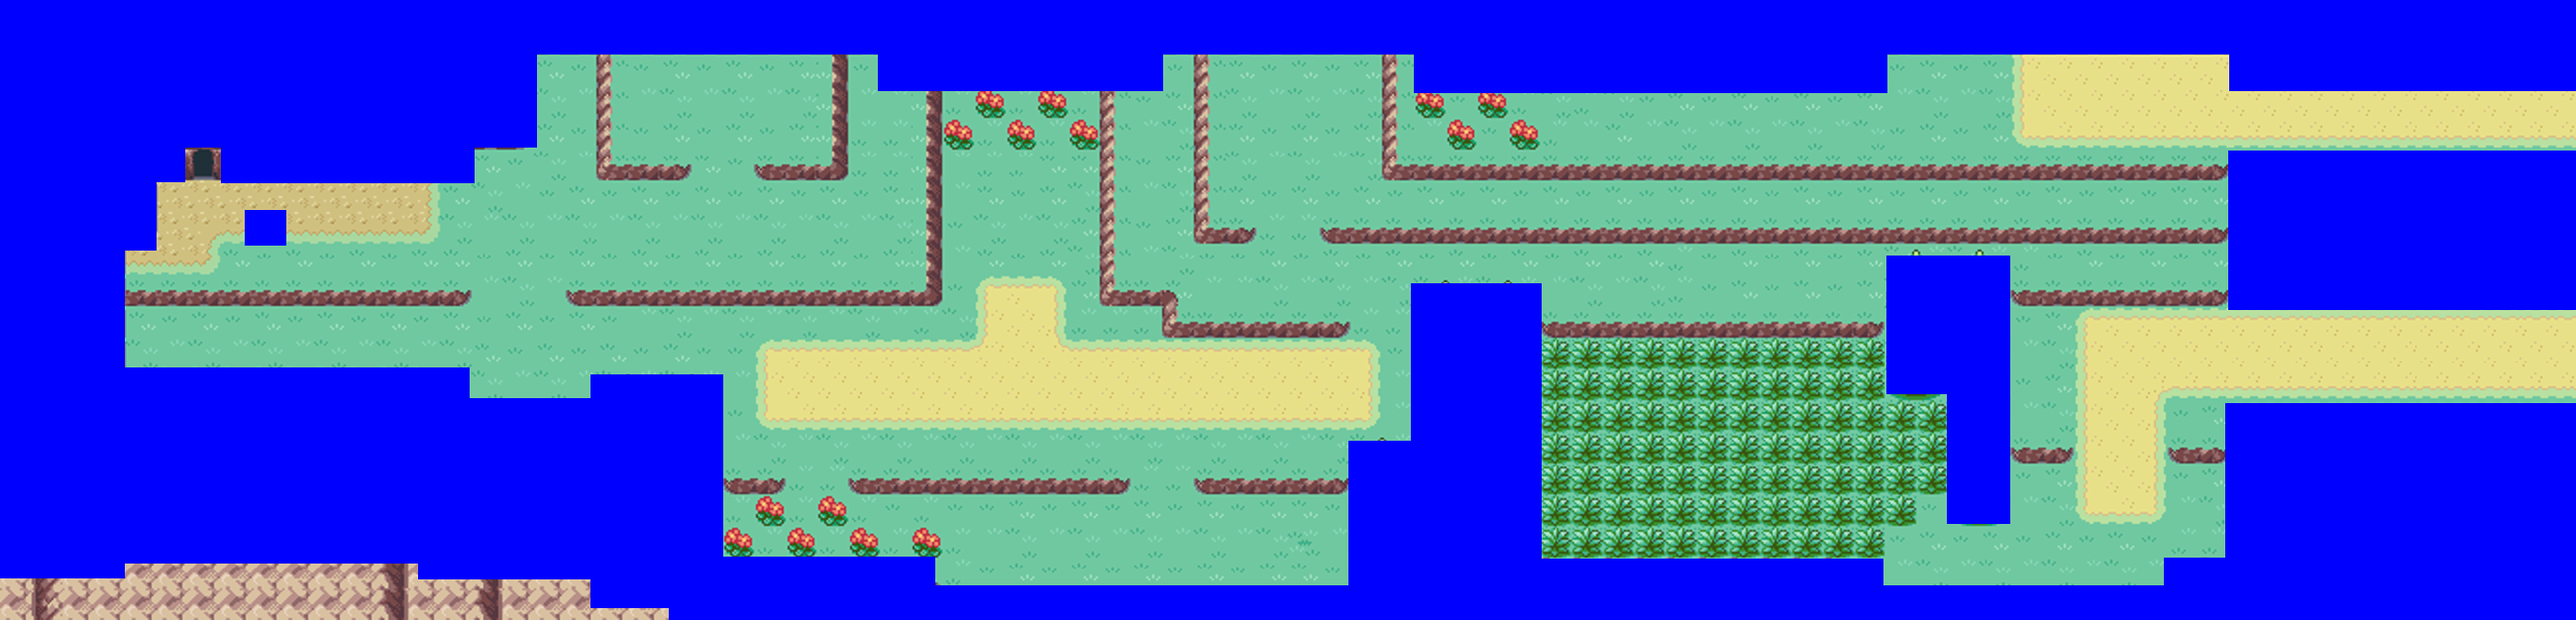
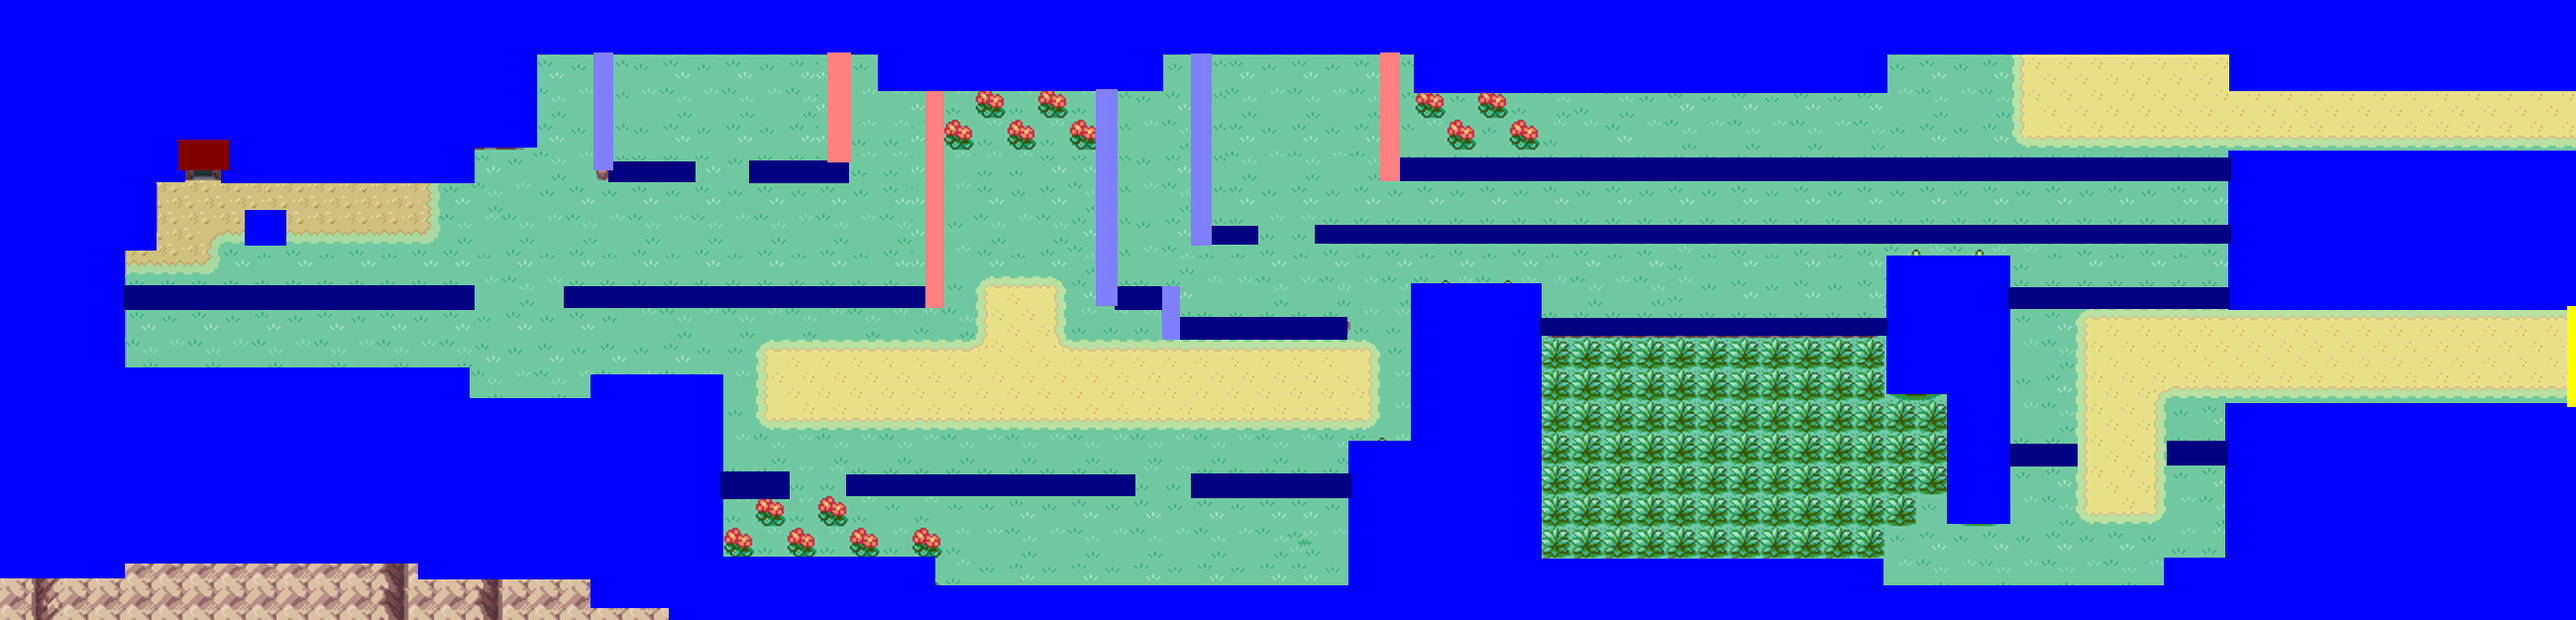
fixed mt Moon and added Cerulean City

diff --git a/src/MasseyMon.java b/src/MasseyMon.java
@@ -29,7 +29,7 @@ public class MasseyMon extends JFrame {
 		setVisible(true);
 		setResizable(false);
 		start();
-		inBattle = true;
+		inBattle = false;
 	}
 	public static void main(String[] args) throws IOException{
 		frame = new MasseyMon();
@@ -41,7 +41,7 @@ public class MasseyMon extends JFrame {
 	public PokemonBattle getPokeBattle(){ return pokeBattle; }
 	public void load() throws IOException {
 		Scanner inFile = new Scanner(new BufferedReader(new FileReader("Data/PlayerPositions.txt")));
-		for (int i = 0; i < 12; i++) {
+		for (int i = 0; i < 13; i++) {
 			String line = inFile.nextLine();
 			String path = String.format("%s/%s/%s%d.png", "Images", "Backgrounds", "Background", i);
 			String pathMask = String.format("%s/%s/%s%d%s.png", "Images", "Masks", "Background", i,"Mask");
@@ -52,7 +52,7 @@ public class MasseyMon extends JFrame {
 			} catch (IOException e) {}
 		}
 		inFile = new Scanner(new BufferedReader(new FileReader("Data/miniPlayerPositions")));
-		for (int k = 0; k <12;k++) {
+		for (int k = 0; k <13;k++) {
 			miniMaps.add(new ArrayList<pokeMapMini>());
 			for (int i = 0; i < 5; i++) {
 				String line = inFile.nextLine();
@@ -320,7 +320,8 @@ class GamePanel extends JPanel {
 	public void move() {
 		if (!menu) {
 			if (movable) {
-				if ((keys[KeyEvent.VK_UP] || keys[KeyEvent.VK_W]) && clear(myGuy.getWorldX(), myGuy.getWorldY() - 1, myGuy.getWorldX() + 19, myGuy.getWorldY() - 1) && checkLedge(myGuy.getWorldX(), myGuy.getWorldY() - 2, myGuy.getWorldX() + 19, myGuy.getWorldY() - 2)) {
+				if ((keys[KeyEvent.VK_UP] || keys[KeyEvent.VK_W]) && clear(myGuy.getWorldX(), myGuy.getWorldY() - 1, myGuy.getWorldX() + 19, myGuy.getWorldY() - 1) && (checkLedge(myGuy.getWorldX(), myGuy.getWorldY() - 2, myGuy.getWorldX() + 19, myGuy.getWorldY() - 2)
+						&& checkLedgeLeft(myGuy.getWorldX(), myGuy.getWorldY() - 2, myGuy.getWorldX() + 19, myGuy.getWorldY() - 2) && checkLedgeRight(myGuy.getWorldX(), myGuy.getWorldY() - 2, myGuy.getWorldX() + 19, myGuy.getWorldY() - 2))) {
 					direction = UP;
 					myGuy.move(direction, picIndex, miniPicIndex, mini);
 					if (checkBuilding(myGuy.getWorldX(), myGuy.getWorldY() - 1, myGuy.getWorldX() + 20, myGuy.getWorldY() - 1)) {
@@ -365,7 +366,7 @@ class GamePanel extends JPanel {
 						myGuy.setWorldY(MasseyMon.getMap(picIndex).getStartPosY());
 						if (MasseyMon.getMap(picIndex).getMapHeight() > 795) {
 
-							if (myGuy.getWorldY() == 397 || myGuy.getWorldY() == 900) {
+							if (myGuy.getWorldY() == 397 || myGuy.getWorldY() == 900 || myGuy.getWorldY() == 860) {
 								myGuy.setScreenY(398);
 							}
 
@@ -393,7 +394,7 @@ class GamePanel extends JPanel {
 						myGuy.setWorldX(MasseyMon.getMap(picIndex).getStartPosX7());
 						myGuy.setWorldY(MasseyMon.getMap(picIndex).getStartPosY7());
 						if (MasseyMon.getMap(picIndex).getMapHeight() > 795) {
-							if (myGuy.getWorldY() == 290 || myGuy.getWorldY() == 300) {
+							if (myGuy.getWorldY() == 290 || myGuy.getWorldY() == 300 || myGuy.getWorldY() == 420) {
 								myGuy.setScreenY(300);
 							} else if (myGuy.getWorldY() - 398 > 0 || myGuy.getWorldY() + 398 < MasseyMon.getMap(picIndex).getMapHeight()) {
 								myGuy.setScreenY(0);
@@ -414,7 +415,8 @@ class GamePanel extends JPanel {
 						}
 					}
 
-				} else if ((keys[KeyEvent.VK_DOWN] || keys[KeyEvent.VK_S]) && clear(myGuy.getWorldX(), myGuy.getWorldY() + 27, myGuy.getWorldX() + 19, myGuy.getWorldY() + 27) && checkLedge(myGuy.getWorldX(), myGuy.getWorldY() + 27, myGuy.getWorldX() + 19, myGuy.getWorldY() + 27)) {
+				} else if ((keys[KeyEvent.VK_DOWN] || keys[KeyEvent.VK_S]) && clear(myGuy.getWorldX(), myGuy.getWorldY() + 27, myGuy.getWorldX() + 19, myGuy.getWorldY() + 27) && (checkLedge(myGuy.getWorldX(), myGuy.getWorldY() + 27, myGuy.getWorldX() + 19, myGuy.getWorldY() + 27)
+						&& checkLedgeLeft(myGuy.getWorldX(), myGuy.getWorldY() + 27, myGuy.getWorldX() + 19, myGuy.getWorldY() + 27) && checkLedgeRight(myGuy.getWorldX(), myGuy.getWorldY() + 27, myGuy.getWorldX() + 19, myGuy.getWorldY() + 27))){
 					direction = DOWN;
 					myGuy.move(direction, picIndex, miniPicIndex, mini);
 
@@ -544,7 +546,7 @@ class GamePanel extends JPanel {
 						myGuy.setWorldX(MasseyMon.getMap(picIndex).getStartPosX7());
 						myGuy.setWorldY(MasseyMon.getMap(picIndex).getStartPosY7());
 						if (MasseyMon.getMap(picIndex).getMapHeight() > 795) {
-							if (myGuy.getWorldY() == 290 || myGuy.getWorldY() == 300) {
+							if (myGuy.getWorldY() == 290 || myGuy.getWorldY() == 300 || myGuy.getWorldY() == 420) {
 								myGuy.setScreenY(300);
 							} else if (myGuy.getWorldY() - 398 > 0 || myGuy.getWorldY() + 398 < MasseyMon.getMap(picIndex).getMapHeight()) {
 								myGuy.setScreenY(0);
@@ -570,7 +572,7 @@ class GamePanel extends JPanel {
 						myGuy.setWorldY(MasseyMon.getMap(picIndex).getStartPosY());
 						if (MasseyMon.getMap(picIndex).getMapHeight() > 795) {
 
-							if (myGuy.getWorldY() == 397 || myGuy.getWorldY() == 900) {
+							if (myGuy.getWorldY() == 397 || myGuy.getWorldY() == 900 || myGuy.getWorldY() == 860) {
 								myGuy.setScreenY(398);
 							}
 
@@ -594,7 +596,8 @@ class GamePanel extends JPanel {
 						}
 					}
 
-				} else if ((keys[KeyEvent.VK_RIGHT] || keys[KeyEvent.VK_D]) && clear(myGuy.getWorldX() + 20, myGuy.getWorldY(), myGuy.getWorldX() + 20, myGuy.getWorldY() + 26) && clear(myGuy.getWorldX() + 20, myGuy.getWorldY(), myGuy.getWorldX() + 20, myGuy.getWorldY() + 20)) {
+				} else if ((keys[KeyEvent.VK_RIGHT] || keys[KeyEvent.VK_D]) && clear(myGuy.getWorldX() + 20, myGuy.getWorldY(), myGuy.getWorldX() + 20, myGuy.getWorldY() + 26) && (checkLedge(myGuy.getWorldX() + 20, myGuy.getWorldY(), myGuy.getWorldX() + 20, myGuy.getWorldY() + 20)
+						&& checkLedgeLeft(myGuy.getWorldX() + 20, myGuy.getWorldY(), myGuy.getWorldX() + 20, myGuy.getWorldY() + 20) && checkLedgeRight(myGuy.getWorldX() + 20, myGuy.getWorldY(), myGuy.getWorldX() + 20, myGuy.getWorldY() + 20))) {
 					direction = RIGHT;
 					myGuy.move(direction, picIndex, miniPicIndex, mini);
 
@@ -604,7 +607,11 @@ class GamePanel extends JPanel {
 						myGuy.setWorldY(MasseyMon.getMap(picIndex).getStartPosY());
 						if (MasseyMon.getMap(picIndex).getMapHeight() > 795) {
 
-							if (myGuy.getWorldY() - 398 > 0 || myGuy.getWorldY() + 398 < MasseyMon.getMap(picIndex).getMapHeight()) {
+							if (myGuy.getWorldY() == 860) {
+								myGuy.setScreenY(398);
+							}
+
+							else if (myGuy.getWorldY() - 398 > 0 || myGuy.getWorldY() + 398 < MasseyMon.getMap(picIndex).getMapHeight()) {
 								myGuy.setScreenY(795 - (MasseyMon.getMap(picIndex).getMapHeight() - MasseyMon.getMap(picIndex).getStartPosY()));
 
 							} else {
@@ -628,7 +635,7 @@ class GamePanel extends JPanel {
 						myGuy.setWorldX(MasseyMon.getMap(picIndex).getStartPosX7());
 						myGuy.setWorldY(MasseyMon.getMap(picIndex).getStartPosY7());
 						if (MasseyMon.getMap(picIndex).getMapHeight() > 795) {
-							if (myGuy.getWorldY() == 650 || myGuy.getWorldY() == 300 ) {
+							if (myGuy.getWorldY() == 650 || myGuy.getWorldY() == 300 || myGuy.getWorldY() == 420 ) {
 								myGuy.setScreenY(300);
 							} else if (myGuy.getWorldY() - 398 > 0 || myGuy.getWorldY() + 398 < MasseyMon.getMap(picIndex).getMapHeight()) {
 								myGuy.setScreenY(0);
@@ -650,7 +657,8 @@ class GamePanel extends JPanel {
 							myGuy.setScreenX(MasseyMon.getMap(picIndex).getStartPosX7());
 						}
 					}
-				} else if ((keys[KeyEvent.VK_LEFT] || keys[KeyEvent.VK_A]) && clear(myGuy.getWorldX() - 1, myGuy.getWorldY(), myGuy.getWorldX() - 1, myGuy.getWorldY() + 26) && checkLedge(myGuy.getWorldX() - 1, myGuy.getWorldY(), myGuy.getWorldX() - 1, myGuy.getWorldY() + 20)) {
+				} else if ((keys[KeyEvent.VK_LEFT] || keys[KeyEvent.VK_A]) && clear(myGuy.getWorldX() - 1, myGuy.getWorldY(), myGuy.getWorldX() - 1, myGuy.getWorldY() + 26) && (checkLedge(myGuy.getWorldX() - 1, myGuy.getWorldY(), myGuy.getWorldX() - 1, myGuy.getWorldY() + 20)
+						&& checkLedgeLeft(myGuy.getWorldX() - 1, myGuy.getWorldY(), myGuy.getWorldX() - 1, myGuy.getWorldY() + 20) && checkLedgeRight(myGuy.getWorldX() - 1, myGuy.getWorldY(), myGuy.getWorldX() - 1, myGuy.getWorldY() + 20))) {
 					direction = LEFT;
 					myGuy.move(direction, picIndex, miniPicIndex, mini);
 
@@ -659,7 +667,7 @@ class GamePanel extends JPanel {
 						myGuy.setWorldX(MasseyMon.getMap(picIndex).getStartPosX7());
 						myGuy.setWorldY(MasseyMon.getMap(picIndex).getStartPosY7());
 						if (MasseyMon.getMap(picIndex).getMapHeight() > 795) {
-							if (myGuy.getWorldY() == 650 || myGuy.getWorldY() == 300 ) {
+							if (myGuy.getWorldY() == 650 || myGuy.getWorldY() == 300 || myGuy.getWorldY() == 420) {
 								myGuy.setScreenY(300);
 							} else if (myGuy.getWorldY() - 398 > 0 || myGuy.getWorldY() + 398 < MasseyMon.getMap(picIndex).getMapHeight()) {
 								myGuy.setScreenY(0);
@@ -687,7 +695,7 @@ class GamePanel extends JPanel {
 						myGuy.setWorldY(MasseyMon.getMap(picIndex).getStartPosY());
 						if (MasseyMon.getMap(picIndex).getMapHeight() > 795) {
 
-							if (myGuy.getWorldY() == 397 || myGuy.getWorldY() == 900) {
+							if (myGuy.getWorldY() == 397 || myGuy.getWorldY() == 900 || myGuy.getWorldY() == 860) {
 								myGuy.setScreenY(398);
 							}
 
@@ -857,6 +865,50 @@ class GamePanel extends JPanel {
 		}
 		else{
 			if (keys[KeyEvent.VK_UP]|| keys[KeyEvent.VK_W] || keys[KeyEvent.VK_LEFT]|| keys[KeyEvent.VK_A] || keys[KeyEvent.VK_D] || keys[KeyEvent.VK_RIGHT]){
+				return false;
+			}
+		}
+		return true;
+	}
+
+	private boolean checkLedgeLeft(int x, int y, int x2, int y2){
+		BufferedImage maskPic = MasseyMon.getMap(picIndex).getMask();
+		int posX = MasseyMon.getMap(picIndex).getMapX();
+		int posY =  MasseyMon.getMap(picIndex).getMapY();
+
+		int WALL = 0xFF8080FF;
+		if (x < 0 || x >= maskPic.getWidth(null) + posX || y < 0 || y >= maskPic.getHeight(null) + posY) {
+			return false;
+		}
+		int c = maskPic.getRGB(x - posX, y - posY);
+		int d = maskPic.getRGB(x2 - posX, y2 - posY);
+		if (c!= WALL && d!= WALL){
+			return true;
+		}
+		else{
+			if (keys[KeyEvent.VK_UP]|| keys[KeyEvent.VK_W] || keys[KeyEvent.VK_DOWN]|| keys[KeyEvent.VK_S] || keys[KeyEvent.VK_D] || keys[KeyEvent.VK_RIGHT]){
+				return false;
+			}
+		}
+		return true;
+	}
+
+	private boolean checkLedgeRight(int x, int y, int x2, int y2){
+		BufferedImage maskPic = MasseyMon.getMap(picIndex).getMask();
+		int posX = MasseyMon.getMap(picIndex).getMapX();
+		int posY =  MasseyMon.getMap(picIndex).getMapY();
+
+		int WALL = 0xFFFF8080;
+		if (x < 0 || x >= maskPic.getWidth(null) + posX || y < 0 || y >= maskPic.getHeight(null) + posY) {
+			return false;
+		}
+		int c = maskPic.getRGB(x - posX, y - posY);
+		int d = maskPic.getRGB(x2 - posX, y2 - posY);
+		if (c!= WALL && d!= WALL){
+			return true;
+		}
+		else{
+			if (keys[KeyEvent.VK_UP]|| keys[KeyEvent.VK_W] || keys[KeyEvent.VK_LEFT]|| keys[KeyEvent.VK_A] || keys[KeyEvent.VK_DOWN] || keys[KeyEvent.VK_S]){
 				return false;
 			}
 		}
